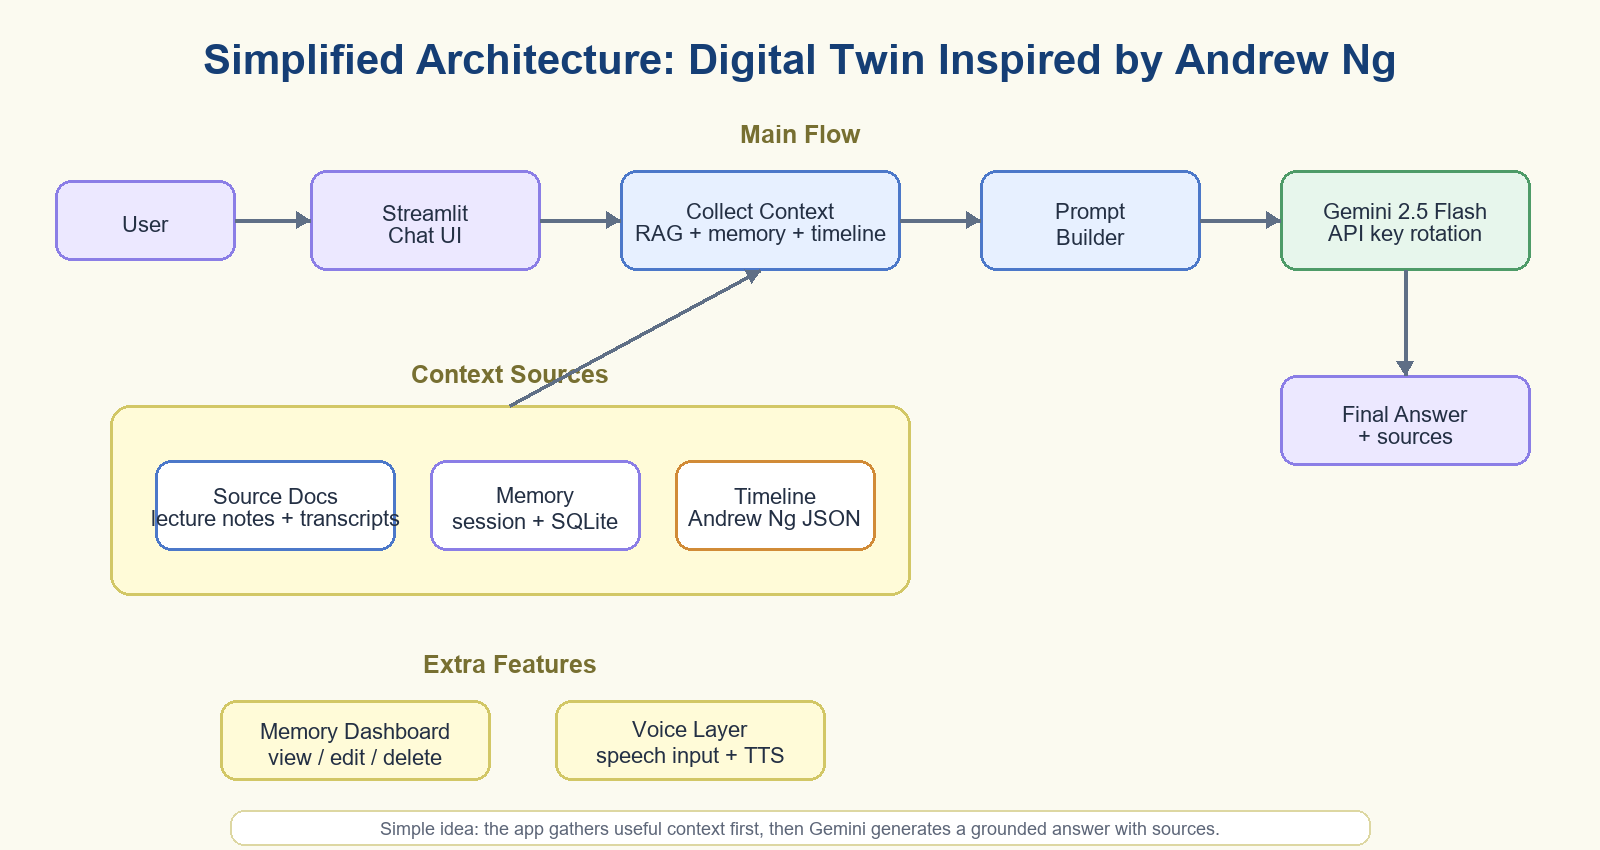
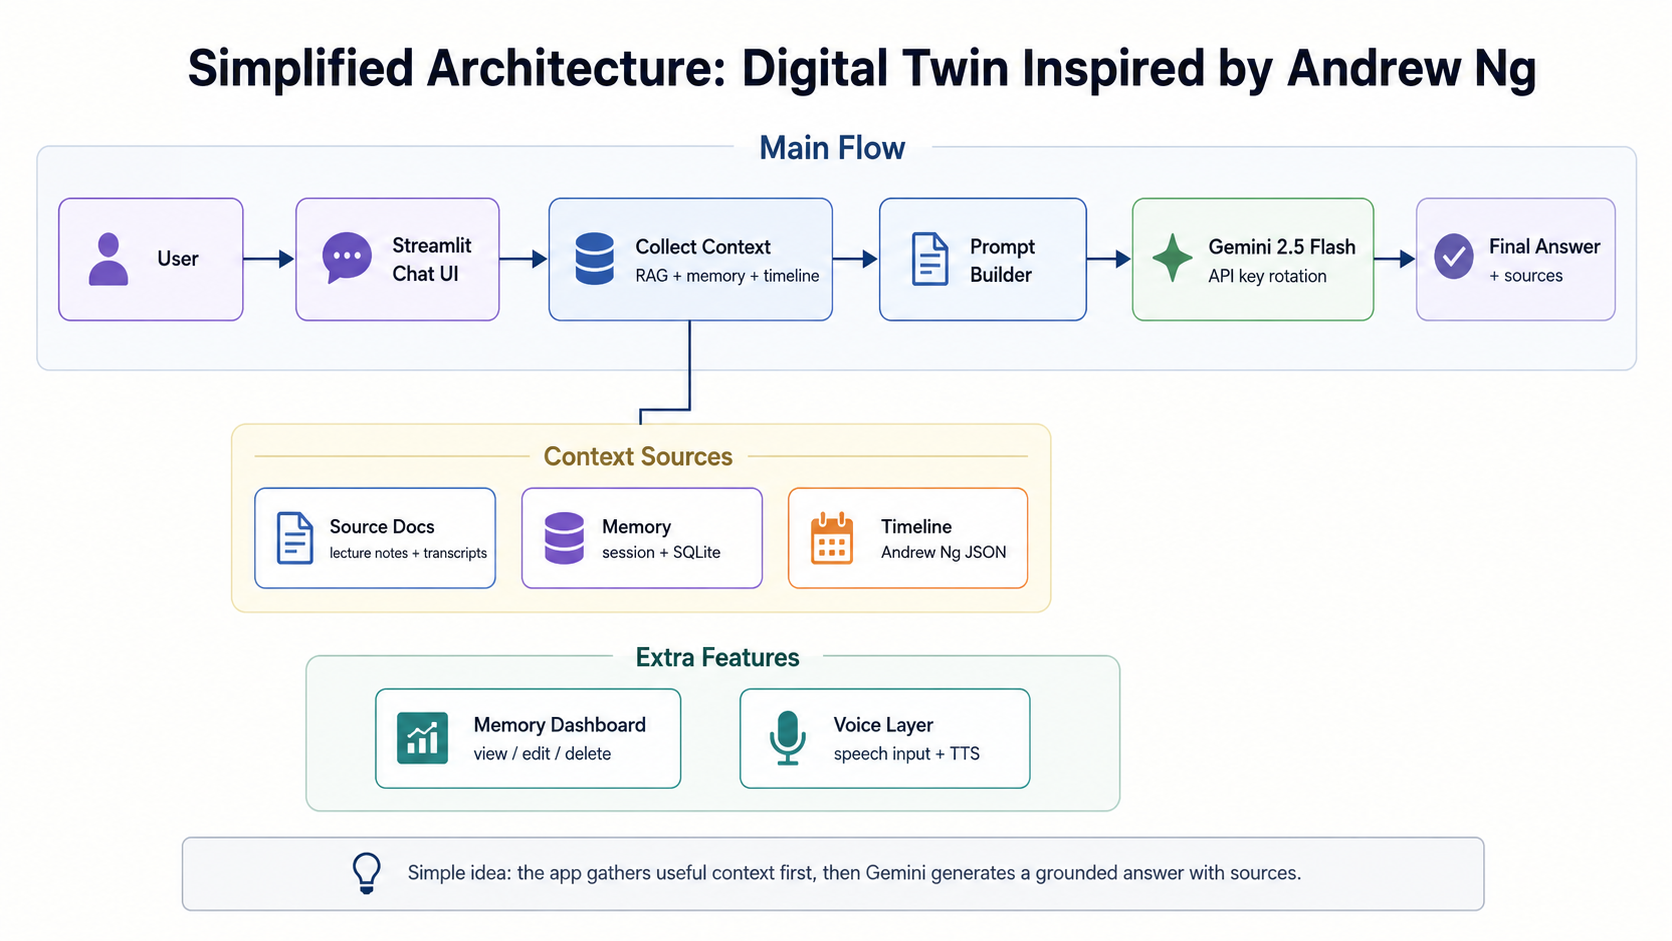
Finalize digital twin project

diff --git a/docs/architecture.md b/docs/architecture.md
@@ -88,34 +88,4 @@ The source list is not generated by Gemini. It is created from retrieval metadat
 
 I did this because an LLM can invent citations. The app should only show sources that were actually retrieved.
 
-```mermaid
-flowchart TD
-    A[User] --> B[Streamlit Chat UI]
-
-    B --> C[Memory Manager]
-    C --> D[Short-Term Session Memory]
-    C --> E[Long-Term SQLite Memory]
-
-    B --> F[RAG Retriever]
-    F --> G[ChromaDB Vector Store]
-    F --> M[BM25 Keyword Retriever]
-    G --> H[Retrieved Source Chunks]
-    M --> H
-    H --> N[Simple Reranker]
-
-    B --> T[Timeline Retriever]
-    T --> TDB[Andrew Ng Timeline JSON]
-    TDB --> TC[Timeline Context]
-
-    D --> I[Prompt Builder]
-    E --> I
-    N --> I
-    TC --> I
-
-    I --> J[Gemini 2.5 Flash]
-    J --> K[Andrew Ng-Inspired Response]
-    K --> B
-
-    B --> L[Save Useful Memories]
-    E --> MD[Memory Dashboard]
-```
+![Simplified architecture diagram](architecture_diagram.png)

diff --git a/README.md b/README.md
@@ -53,22 +53,7 @@ The goal is not to impersonate him. The goal is to simulate some parts of his pu
 
 The full architecture diagram is in [docs/architecture_diagram.md](docs/architecture_diagram.md).
 
-```mermaid
-flowchart TD
-    USER[User] --> UI[Streamlit Chat UI]
-    UI --> CONTEXT[Collect Context\nRAG + Memory + Timeline]
-    CONTEXT --> PROMPT[Prompt Builder]
-    PROMPT --> GEMINI[Gemini 2.5 Flash\nAPI Key Rotation]
-    GEMINI --> ANSWER[Final Answer + Sources]
-
-    DOCS[Source Documents] --> RAG[RAG Retrieval\nChromaDB + BM25]
-    RAG --> CONTEXT
-    MEMORY[Memory\nSession + SQLite] --> CONTEXT
-    TIMELINE[Timeline\nAndrew Ng JSON] --> CONTEXT
-
-    UI --> DASHBOARD[Memory Dashboard]
-    UI --> VOICE[Voice Layer\nSpeech Input + Browser TTS]
-```
+![Simplified architecture diagram](docs/architecture_diagram.png)
 
 ## Key USPs
 

diff --git a/docs/architecture_diagram.md b/docs/architecture_diagram.md
@@ -2,22 +2,7 @@
 
 This is the simplified architecture diagram for the assignment. It focuses on the main flow: the user asks a question, the app gathers context, Gemini generates an answer, and the answer is shown back to the user.
 
-```mermaid
-flowchart TD
-    USER[User] --> UI[Streamlit Chat UI]
-    UI --> CONTEXT[Collect Context\nRAG + Memory + Timeline]
-    CONTEXT --> PROMPT[Prompt Builder]
-    PROMPT --> GEMINI[Gemini 2.5 Flash\nAPI Key Rotation]
-    GEMINI --> ANSWER[Final Answer + Sources]
-
-    DOCS[Source Documents] --> RAG[RAG Retrieval\nChromaDB + BM25]
-    RAG --> CONTEXT
-    MEMORY[Memory\nSession + SQLite] --> CONTEXT
-    TIMELINE[Timeline\nAndrew Ng JSON] --> CONTEXT
-
-    UI --> DASHBOARD[Memory Dashboard]
-    UI --> VOICE[Voice Layer\nSpeech Input + Browser TTS]
-```
+![Simplified architecture diagram](architecture_diagram.png)
 
 ## Component Summary
 